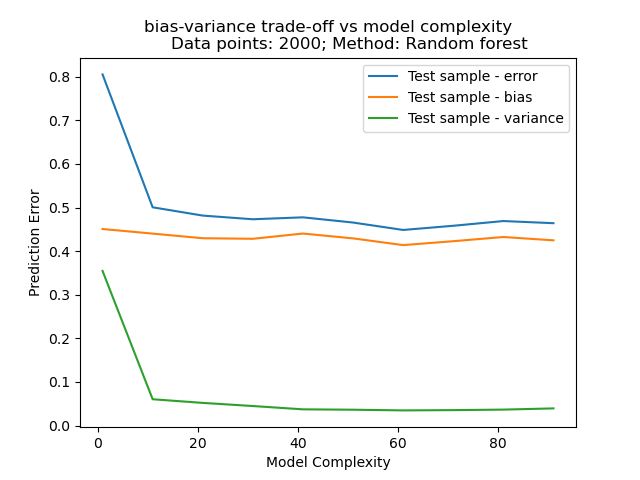
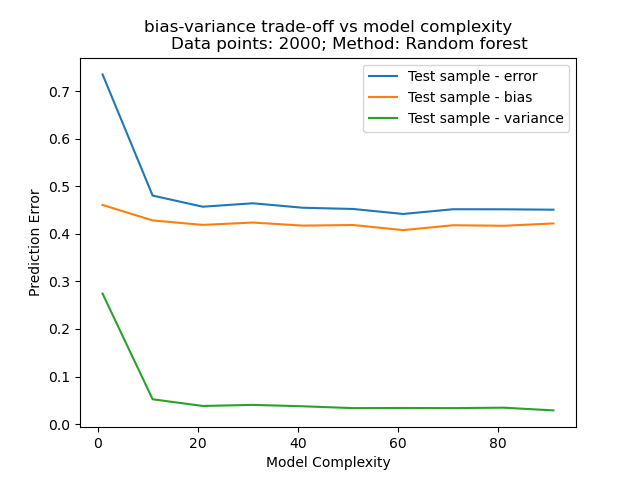
small change

diff --git a/project3/code/test_project_3.py b/project3/code/test_project_3.py
@@ -1125,7 +1125,7 @@ if test19:
     X_train, X_test, y_train, y_test = helper.load_housing_california_data(
         n_components, 1000)
 
-    max_depths = np.arange(4, 100, 2)
+    max_depths = np.arange(4, 10, 2)
 
     train_accuracy_score = []
     test_accuracy_score = []
@@ -1134,7 +1134,7 @@ if test19:
     last_train_accuracy = 0
     for i, max_depth in enumerate(max_depths):
         clf = RandomForestRegressor(
-            max_depth=max_depth, random_state=50)
+            max_depth=max_depth, random_state=50, n_estimators=25)
 
         # Fit the data to the model we have created
         clf.fit(X_train, y_train)
@@ -1683,7 +1683,7 @@ if test26:
             _X, _y, = helper.resample(X_train, y_train)
 
             # Create randomforest instance, with amount of max_depth
-            clf = RandomForestRegressor(max_depth=10, n_estimators=degree)
+            clf = RandomForestRegressor(max_depth=7, n_estimators=degree)
 
             # Fit the data to the model we have created
             clf.fit(_X, _y)
